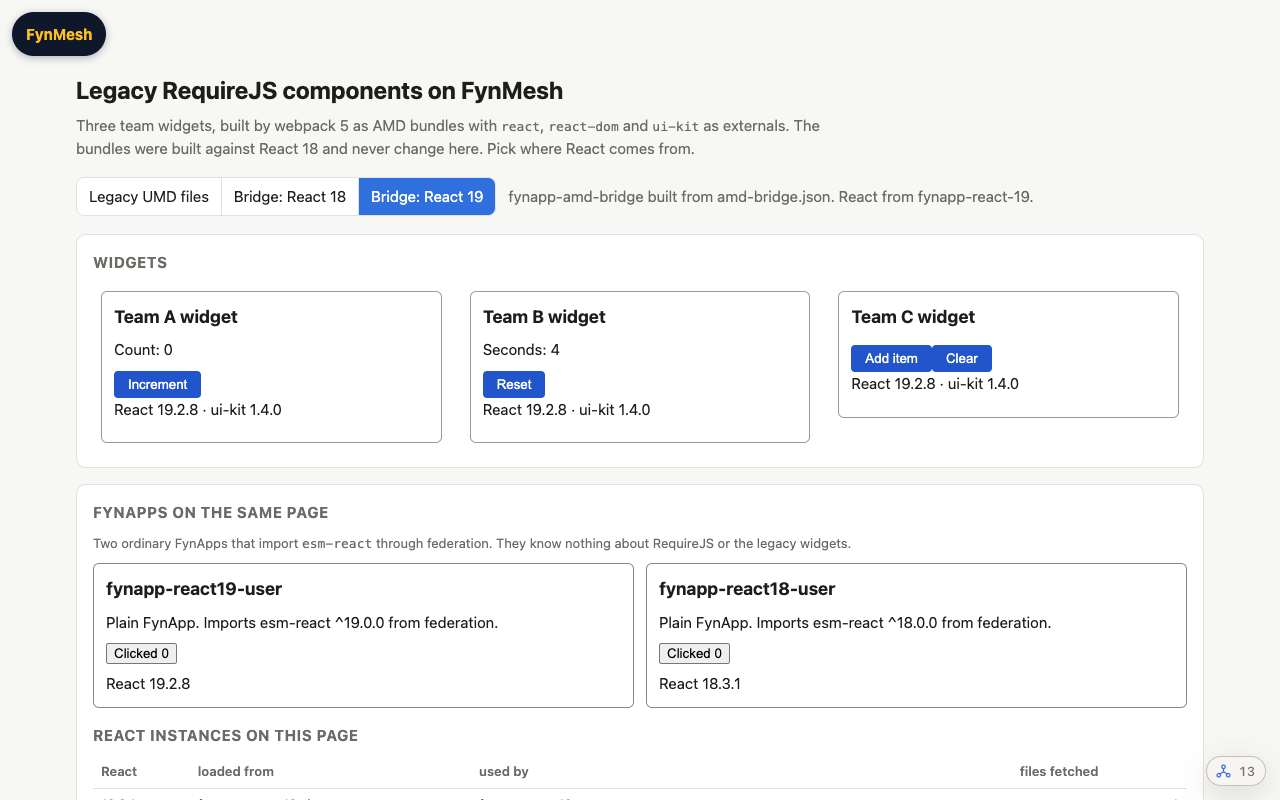
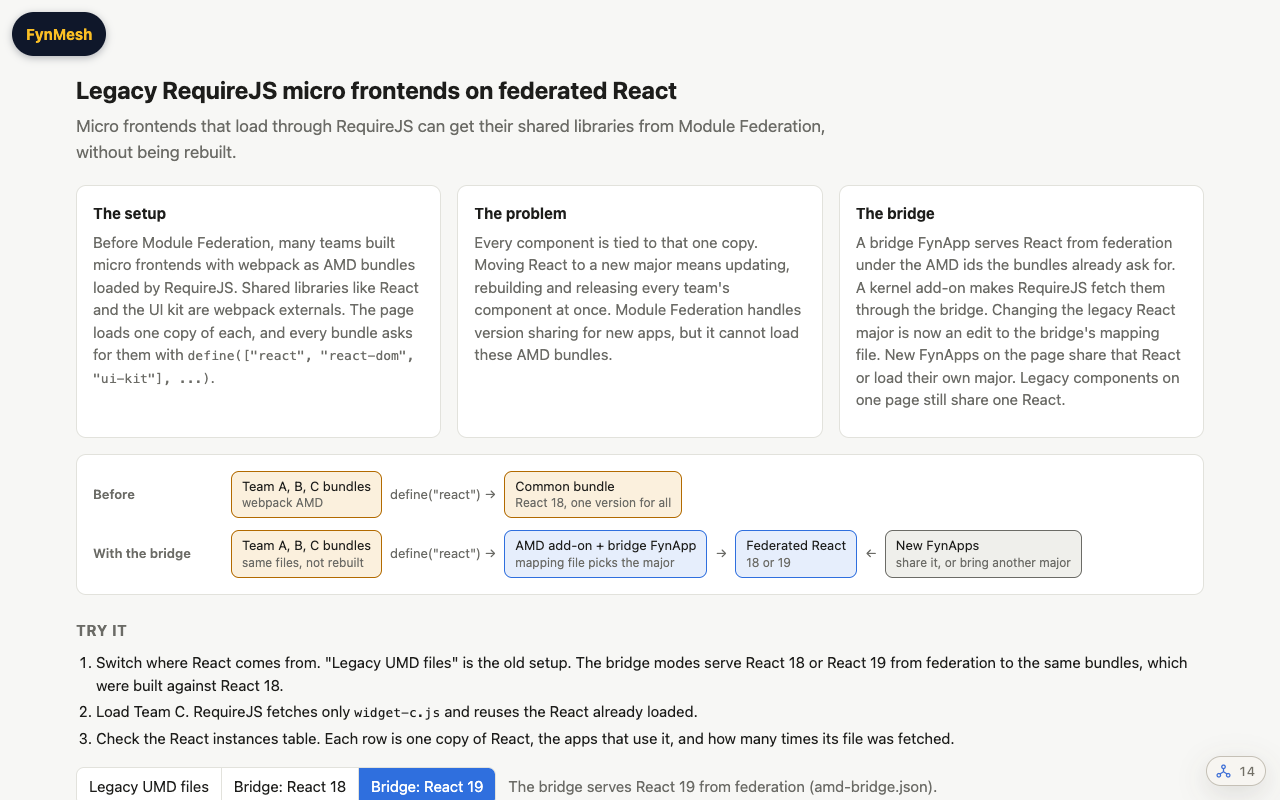
docs(site): give the legacy AMD demo an intro that sets out the setup, the lock-in problem and the bridge

Changed region(s): [[0.0625, 0.0938, 0.9375, 0.5312], [0.0625, 0.5625, 0.9375, 1.0], [0.7812, 0.9375, 0.8438, 0.9688]]

diff --git a/demo/demo-server/templates/pages/legacy-amd.html b/demo/demo-server/templates/pages/legacy-amd.html
@@ -91,17 +91,90 @@
       svg text { fill: var(--ink); font: 12px ui-monospace, Menlo, monospace; }
       svg .edge { stroke: var(--line); stroke-width: 1.5; fill: none; }
       .full { grid-column: 1 / -1; }
+      .lede { font-size: 17px; }
+      .intro { display: grid; grid-template-columns: repeat(3, minmax(0, 1fr)); gap: 16px; margin: 20px 0 16px; }
+      @media (max-width: 860px) { .intro { grid-template-columns: minmax(0, 1fr); } }
+      .intro h3 { font-size: 15px; margin: 0 0 6px; }
+      .intro p { color: var(--muted); }
+      .flow { display: grid; gap: 12px; }
+      .flow-row { display: flex; flex-wrap: wrap; align-items: center; gap: 8px; }
+      .flow-label { width: 130px; font-size: 13px; font-weight: 600; color: var(--muted); }
+      @media (max-width: 600px) { .flow-label { width: 100%; } }
+      .node { border: 1px solid; border-radius: 8px; padding: 6px 10px; font-size: 13px; line-height: 1.35; }
+      .node small { display: block; color: var(--muted); font-size: 12px; }
+      .node.legacy { border-color: var(--legacy); background: var(--legacy-bg); }
+      .node.bridge { border-color: var(--bridge); background: var(--bridge-bg); }
+      .node.inline { border-color: var(--inline); background: var(--inline-bg); }
+      .arrow { color: var(--muted); font-size: 13px; }
+      ol.try { margin: 0; padding-left: 20px; }
+      ol.try li { margin-bottom: 4px; }
     </style>
 {% endblock %}
 
 {% block content %}
     <main>
-      <h1>Legacy RequireJS components on FynMesh</h1>
+      <h1>Legacy RequireJS micro frontends on federated React</h1>
       <p class="lede">
-        Three team widgets, built by webpack 5 as AMD bundles with <code>react</code>,
-        <code>react-dom</code> and <code>ui-kit</code> as externals. The bundles were built
-        against React 18 and never change here. Pick where React comes from.
+        Micro frontends that load through RequireJS can get their shared libraries from Module
+        Federation, without being rebuilt.
       </p>
+
+      <div class="intro">
+        <section class="panel">
+          <h3>The setup</h3>
+          <p>
+            Before Module Federation, many teams built micro frontends with webpack as AMD bundles
+            loaded by RequireJS. Shared libraries like React and the UI kit are webpack externals.
+            The page loads one copy of each, and every bundle asks for them with
+            <code>define(["react", "react-dom", "ui-kit"], ...)</code>.
+          </p>
+        </section>
+        <section class="panel">
+          <h3>The problem</h3>
+          <p>
+            Every component is tied to that one copy. Moving React to a new major means updating,
+            rebuilding and releasing every team's component at once. Module Federation handles
+            version sharing for new apps, but it cannot load these AMD bundles.
+          </p>
+        </section>
+        <section class="panel">
+          <h3>The bridge</h3>
+          <p>
+            A bridge FynApp serves React from federation under the AMD ids the bundles already ask
+            for. A kernel add-on makes RequireJS fetch them through the bridge. Changing the legacy
+            React major is now an edit to the bridge's mapping file. New FynApps on the page share
+            that React or load their own major. Legacy components on one page still share one React.
+          </p>
+        </section>
+      </div>
+
+      <section class="panel">
+        <div class="flow">
+          <div class="flow-row">
+            <span class="flow-label">Before</span>
+            <span class="node legacy">Team A, B, C bundles<small>webpack AMD</small></span>
+            <span class="arrow">define("react") →</span>
+            <span class="node legacy">Common bundle<small>React 18, one version for all</small></span>
+          </div>
+          <div class="flow-row">
+            <span class="flow-label">With the bridge</span>
+            <span class="node legacy">Team A, B, C bundles<small>same files, not rebuilt</small></span>
+            <span class="arrow">define("react") →</span>
+            <span class="node bridge">AMD add-on + bridge FynApp<small>mapping file picks the major</small></span>
+            <span class="arrow">→</span>
+            <span class="node bridge">Federated React<small>18 or 19</small></span>
+            <span class="arrow">←</span>
+            <span class="node inline">New FynApps<small>share it, or bring another major</small></span>
+          </div>
+        </div>
+      </section>
+
+      <h2 style="margin-top: 24px">Try it</h2>
+      <ol class="try">
+        <li>Switch where React comes from. "Legacy UMD files" is the old setup. The bridge modes serve React 18 or React 19 from federation to the same bundles, which were built against React 18.</li>
+        <li>Load Team C. RequireJS fetches only <code>widget-c.js</code> and reuses the React already loaded.</li>
+        <li>Check the React instances table. Each row is one copy of React, the apps that use it, and how many times its file was fetched.</li>
+      </ol>
 
       <div class="bar">
         <nav class="seg" id="source-switch">
@@ -114,7 +187,7 @@
 
       <div class="grid">
         <section class="panel full">
-          <h2>Widgets</h2>
+          <h2>Legacy widgets: unchanged webpack AMD bundles</h2>
           <div class="widgets">
             <div id="widget-a"></div>
             <div id="widget-b"></div>
@@ -187,9 +260,9 @@
     <script>
       (function () {
         var SOURCES = {
-          umd: "UMD React 18 files through RequireJS paths. No bridge.",
-          react18: "fynapp-amd-bridge built from amd-bridge.react18.json. React from fynapp-react-18.",
-          react19: "fynapp-amd-bridge built from amd-bridge.json. React from fynapp-react-19.",
+          umd: "The old setup: RequireJS loads React 18 from UMD files. No federation.",
+          react18: "The bridge serves React 18 from federation (amd-bridge.react18.json).",
+          react19: "The bridge serves React 19 from federation (amd-bridge.json).",
         };
         var source = new URLSearchParams(location.search).get("source");
         if (!SOURCES[source]) source = "react19";

diff --git a/demo/demo-server/templates/pages/demos.html b/demo/demo-server/templates/pages/demos.html
@@ -84,10 +84,10 @@
         </article>
 
         <article class="fm-demo-row">
-            <a href="{{pathPrefix}}legacy-amd{{ext}}" aria-label="Open the legacy RequireJS widgets demo"><img class="fm-shot" src="{{pathPrefix}}images/demo-legacy-amd.png" alt="Three legacy widgets and two FynApps on one page, under a switch for where React comes from" width="1280" height="800" loading="lazy"></a>
+            <a href="{{pathPrefix}}legacy-amd{{ext}}" aria-label="Open the legacy RequireJS widgets demo"><img class="fm-shot" src="{{pathPrefix}}images/demo-legacy-amd.png" alt="The demo intro: the legacy setup, the React lock-in problem, the bridge, and a before and after diagram" width="1280" height="800" loading="lazy"></a>
             <div class="fm-demo-text">
                 <h2>Legacy RequireJS widgets</h2>
-                <p>Three widgets were built by webpack as AMD bundles, with React as an external. Here they get React from federation instead of a UMD file, and the bundles are not rebuilt. Two ordinary FynApps on the same page share that copy of React.</p>
+                <p>Micro frontends built with webpack before Module Federation often load as AMD bundles through RequireJS, with React and a UI kit as externals. Every component is locked to the one React the page supplies, so a React major means updating all of them. Here a bridge FynApp serves React from federation to the unchanged bundles, and switching the major is a change to one mapping file. Ordinary FynApps on the same page share that React or bring another major.</p>
                 <h3>What to try</h3>
                 <ul>
                     <li>Switch React's source between the UMD files, React 18 and React 19</li>
